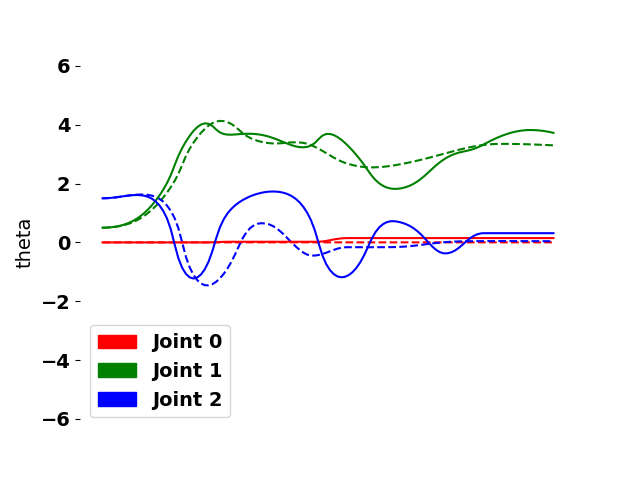
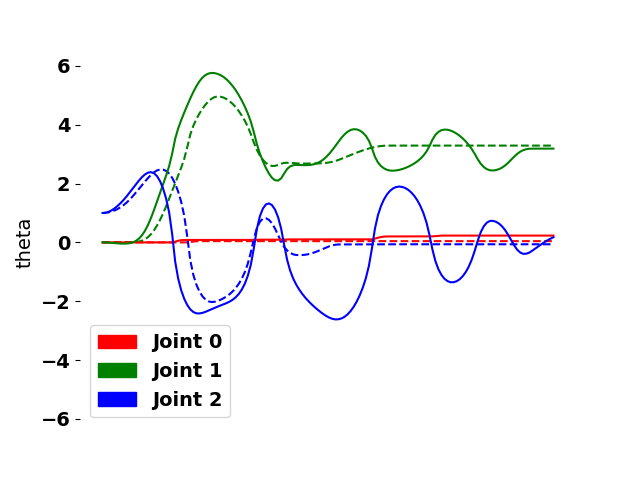
started working on displaying both trajectories at once

diff --git a/final/viz2.py b/final/viz2.py
@@ -1,0 +1,306 @@
+import ctypes
+from pyglet.gl import *
+from pyglet.window import key
+from pywavefront import visualization, Wavefront
+import numpy as np
+import time
+from pyglet.window import mouse
+from trajPlotter import trajPlotter
+
+class viz:
+	"""Robotic arm visualization class made using OpenGL
+		(path( 3*n numpy array), use_GPU = False)
+	 .start() to run"""
+
+	def __init__(self, pathA, pathB, use_GPU = False):
+
+		self.pathA = pathA
+		self.pathB = pathB
+		self.lenPath = len(pathA)
+		self.tp = trajPlotter(self.pathA,self.pathB)
+
+		if use_GPU is False:
+			self.window = pyglet.window.Window(width=1280,height=720)
+		else:
+			config = pyglet.gl.Config(sample_buffers=1, samples=9) #samples = number of points used for AA
+			self.window = pyglet.window.Window(width=1280, height=720, config = config)
+
+		self.keys = key.KeyStateHandler()
+		self.window.push_handlers(self.keys)
+		self.window.push_handlers(self.on_mouse_drag)
+
+		self.base = Wavefront('assets/base.obj')
+		self.link0 = Wavefront('assets/l0.obj')
+		self.link1 = Wavefront('assets/l1.obj')
+		self.link2 = Wavefront('assets/l2andl3Dummy.obj')
+		greenCheck = pyglet.image.load('assets/greenCheck.png')
+		self.gc = pyglet.sprite.Sprite(img=greenCheck)
+		self.gc.scale = 0.01
+		self.gc.x = -10
+		self.gc.y = 12
+		redX = pyglet.image.load('assets/redX.png')
+		self.rx = pyglet.sprite.Sprite(img=redX)
+		self.rx.scale = 0.005
+		self.rx.x = -10
+		self.rx.y = 12
+
+		self.l1 = 6.5
+		self.l2 = 6.5
+		self.l3 = 2.65
+		self.rotation = 0
+		self.cameraZ = 0.0
+		self.i = 0
+		self.on_resize(1280,720)
+
+		self.dx = 0
+		self.dy = 0
+		self.theta = 0
+		self.phi = 0
+
+		#test
+		#TODO generate plot from here
+		self.label = None
+		plotFigPath = "pathFig.png"
+		plotFig = pyglet.image.load(plotFigPath)
+
+
+		self.plotFig = pyglet.sprite.Sprite(img=plotFig)
+		self.plotFig.scale = 0.0375
+		self.plotFig.x = -32
+		self.plotFig.y = 5
+
+		self.spf = 1/60 #seconds per frame
+
+		#debug- this may allow alphas to be turned on
+		# glEnable(GL_BLEND)
+		# glBlendFunc(GL_SRC_ALPHA, GL_ONE_MINUS_SRC_ALPHA)
+
+	def on_resize(self,width, height):
+		glMatrixMode(GL_PROJECTION)
+		glLoadIdentity()
+		gluPerspective(50., float(width)/height, 1., 100.) #change first argument for fov
+		glTranslatef(0,-5,-40) #fits arm into camera view
+		glMatrixMode(GL_MODELVIEW)
+		return True
+
+	def on_draw(self):
+		self.window.clear()
+		glClearColor(0.25,0.25,0.25,0.5) #sets background color
+		glViewport(0,0,1280,720)
+		glLoadIdentity()
+		glMatrixMode(GL_PROJECTION)
+		# glRotatef(0,0,1,0)
+		
+
+		#new
+		self.plotFig.draw() #draws sprite directly to screen regardless of camera angle
+		if self.label:
+			self.label.draw()
+		glTranslatef(self.dx/20,self.dy/20,0)
+		glRotatef(self.theta/5,0,1,0)
+		#not sure how important this one is
+		# glRotatef(self.phi/5,-1,0,0)
+
+		
+
+
+
+		glMatrixMode(GL_MODELVIEW)
+		link0RotA = (180/np.pi)*self.pathA[self.i,0]
+		link1RotA = (180/np.pi)*self.pathA[self.i,1]
+		link2RotA = (180/np.pi)*self.pathA[self.i,2]
+
+		link0RotB = (180/np.pi)*self.pathB[self.i,0]
+		link1RotB = (180/np.pi)*self.pathB[self.i,1]
+		link2RotB = (180/np.pi)*self.pathB[self.i,2]
+
+
+		lightfv = ctypes.c_float * 4
+
+		#get link positions for A
+		link2RotEffA = link1RotA + link2RotA
+		xElbA = ( self.l1 * np.sin(link0RotA*(np.pi/180))*np.sin(link1RotA*(np.pi/180)))
+		yElbA = ( self.l1 * np.cos((link1RotA*(np.pi/180)))) 
+		zElbA =  ( self.l1 * np.cos(link0RotA*(np.pi/180))*np.sin(link1RotA*(np.pi/180)))
+		xl3A = xElbA + ( self.l2 * np.sin(link0RotA*(np.pi/180))*np.sin(link2RotEffA*(np.pi/180)))
+		yl3A = yElbA + ( self.l2 * np.cos((link2RotEffA*(np.pi/180)))) 
+		zl3A = zElbA + ( self.l2 * np.cos(link0RotA*(np.pi/180))*np.sin(link2RotEffA*(np.pi/180)))
+		xl4A = xElbA + ( (self.l2+self.l3) * np.sin(link0RotA*(np.pi/180))*np.sin(link2RotEffA*(np.pi/180)))
+		yl4A = yElbA + ( (self.l2+self.l3) * np.cos((link2RotEffA*(np.pi/180)))) 
+		zl4A = zElbA + ( (self.l2+self.l3) * np.cos(link0RotA*(np.pi/180))*np.sin(link2RotEffA*(np.pi/180)))
+
+		#repeat for B
+		link2RotEffB = link1RotB + link2RotB
+		xElbB = ( self.l1 * np.sin(link0RotB*(np.pi/180))*np.sin(link1RotB*(np.pi/180)))
+		yElbB = ( self.l1 * np.cos((link1RotB*(np.pi/180)))) 
+		zElbB =  ( self.l1 * np.cos(link0RotB*(np.pi/180))*np.sin(link1RotB*(np.pi/180)))
+		xl3B = xElbB + ( self.l2 * np.sin(link0RotB*(np.pi/180))*np.sin(link2RotEffB*(np.pi/180)))
+		yl3B = yElbB + ( self.l2 * np.cos((link2RotEffB*(np.pi/180)))) 
+		zl3B = zElbB + ( self.l2 * np.cos(link0RotB*(np.pi/180))*np.sin(link2RotEffB*(np.pi/180)))
+		xl4B = xElbB + ( (self.l2+self.l3) * np.sin(link0RotB*(np.pi/180))*np.sin(link2RotEffB*(np.pi/180)))
+		yl4B = yElbB + ( (self.l2+self.l3) * np.cos((link2RotEffB*(np.pi/180)))) 
+		zl4B = zElbB + ( (self.l2+self.l3) * np.cos(link0RotB*(np.pi/180))*np.sin(link2RotEffB*(np.pi/180)))
+
+
+		#glLightfv(GL_LIGHT0, GL_POSITION, lightfv(-1.0, 1.0*np.sin(rotation*0.1), 1.0, 0.0))
+		# glLightfv(GL_LIGHT0, GL_AMBIENT, lightfv(0.5,0.5,0.5,0.1))
+		glLightfv(GL_LIGHT0, GL_DIFFUSE, lightfv(0.5, 0.5, 0.5, 0.9))
+		glLightfv(GL_LIGHT0, GL_SPECULAR, lightfv(0.0,0.0,0.0,0.1))
+
+		glEnable(GL_DEPTH_TEST)
+
+		self.draw_base(self.base)
+		self.draw_link0(self.link0, 0, 0, 0, link0RotA)
+		# self.draw_link0(self.link0, 0, 0, 0, link0RotB) #TODO- turn up alpha
+		self.draw_link1(self.link1, 0, 0, 0,link0RotA, link1RotA)
+		self.draw_link1(self.link1, 0, 0, 0,link0RotB, link1RotB, wireframe = True) #todo turn up alpha
+		self.draw_link2(self.link2, xElbA, yElbA, zElbA, link0RotA, link1RotA, link2RotA)
+		self.draw_link2(self.link2, xElbB, yElbB, zElbB, link0RotB, link1RotB, link2RotB, wireframe = True)
+
+
+		glColorMask(GL_TRUE, GL_TRUE, GL_TRUE, GL_TRUE)
+		
+		## draw workspace boundary
+		# self.draw_cube()
+		# #draw green check if EE is inside the workspace
+		# if (xl3 > -8) and (xl3 < 8) and (yl3 < 10) and (yl3 > -5) and (zl3 > 3) and (zl3 < 13):
+		# 		self.gc.draw()
+		# #if EE is outside workspace draw the red x
+		# else:
+		# 		self.rx.draw()
+
+		# self.window.flip()
+		time.sleep(0.01)
+
+	def draw_base(self,link):
+		glLoadIdentity()
+		glMatrixMode(GL_MODELVIEW)
+		glRotatef(45,0,1,0)
+		glTranslatef(0,-3.4,0)
+		visualization.draw(link)
+
+	def draw_cube(self):
+		glLoadIdentity()
+		# glDisable(GL_POLYGON_SMOOTH)
+		glPolygonMode(GL_FRONT_AND_BACK, GL_LINE)
+		glLineStipple(10, 0xAAAA)
+		glEnable(GL_LINE_STIPPLE)
+		glColor3f(0.8, 0.0, 0.1)
+		glLineWidth(1)
+		#robot right
+		glBegin(GL_QUADS)
+		glVertex3f( -8, -5,  13 )
+		glVertex3f( -8,  10,  13 )
+		glVertex3f( -8,  10,  3 )
+		glVertex3f( -8, -5,  3 )
+		glEnd()
+		#robot left
+		glBegin(GL_QUADS)
+		glVertex3f( 8, -5,  13 )
+		glVertex3f( 8,  10,  13 )
+		glVertex3f( 8,  10,  3 )
+		glVertex3f( 8, -5,  3 )
+		glEnd()
+		#robot top
+		glBegin(GL_QUADS)
+		glVertex3f( -8,  10,  13 )
+		glVertex3f( -8,  10,  3 )
+		glVertex3f( 8,  10,  3 )
+		glVertex3f( 8,  10,  13 )
+		glEnd()
+		#robot bottom
+		glBegin(GL_QUADS)
+		glVertex3f( -8,  -5,  13 )
+		glVertex3f( -8,  -5,  3 )
+		glVertex3f( 8,  -5,  3 )
+		glVertex3f( 8,  -5,  13 )
+		glEnd()
+
+		#returns polygon mode to smooth
+		# glPolygonMode(GL_FRONT_AND_BACK, GL_FILL)
+		glPolygonMode(GL_FRONT, GL_FILL)
+		glBlendFunc(GL_SRC_ALPHA,GL_ONE_MINUS_SRC_ALPHA)
+		# glEnable(GL_BLEND)
+		glEnable(GL_MULTISAMPLE)
+		# glfwWindowHint(GLFW_SAMPLES, 4)
+		glHint(GL_POLYGON_SMOOTH_HINT, GL_NICEST)
+		# glDisable(GL_DEPTH_TEST)
+
+	def draw_link0(self,link, x, y, z, link0Rot):
+		glLoadIdentity()
+		glMatrixMode(GL_MODELVIEW)
+		glRotatef(link0Rot, 0.0, 1.0 , 0.0)
+		glTranslatef(x, y, z)
+
+		visualization.draw(link)
+
+	def draw_link1(self,link, x, y, z,link0Rot, link1Rot, wireframe = False):
+		glLoadIdentity()
+		glMatrixMode(GL_MODELVIEW)
+		#glRotatef(180,0,1,0) #flips l1 around so it isnt bending backwards
+		glRotatef(link0Rot, 0.0, 1.0 , 0.0)
+		glRotatef(link1Rot, 1.0, 0.0 , 0.0)
+		if wireframe:
+			# glPolygonMode( GL_FRONT_AND_BACK, GL_LINE ) #ugly wireframe
+			glPolygonMode( GL_FRONT, GL_POINT)
+			# glPointSize(1)
+		visualization.draw(link)
+		glPolygonMode(GL_FRONT_AND_BACK, GL_FILL)
+		
+	def draw_link2(self,link, x, y, z, link0Rot, link1Rot, link2Rot, wireframe = False):
+		glLoadIdentity()
+		glMatrixMode(GL_MODELVIEW)
+		glTranslatef(x, y, z)
+		#print("link0Rot: ", link0Rot, " Link1Rot: ", link1Rot, " Link2Rot: ", link2Rot)
+		glRotatef(link0Rot, 0.0, 1.0 , 0.0)
+		glRotatef(link1Rot, 1.0, 0.0 , 0.0)
+		glRotatef(link2Rot, 1.0, 0.0, 0.0)
+		if wireframe:
+			glPolygonMode(GL_FRONT, GL_POINT)
+		visualization.draw(link)
+		glPolygonMode(GL_FRONT_AND_BACK, GL_FILL)
+
+
+	# @window.event #doesen't work in class
+	def on_mouse_drag(self,x,y,dx,dy,button,modifiers):
+		"""move camera with mouse (click and drag)"""
+		
+		if button == pyglet.window.mouse.LEFT:
+			self.dx += dx
+			self.dy += dy
+
+		if button == pyglet.window.mouse.RIGHT:
+			self.theta += dx
+			self.phi += dy
+
+
+	def update(self, dt):
+		self.on_draw()
+		self.on_resize(1280,720)
+
+		#update text inside label here
+		self.label = pyglet.text.Label('Hello, world',
+                          font_name='Times New Roman',
+                          font_size=12,
+                          x=self.window.width//2, y=self.window.height//2,
+                          anchor_x='center', anchor_y='center',color = (255,255,255,100))
+
+		self.i += 1
+		if self.i == (self.lenPath - 1):
+			self.i = 0 #loop
+
+	def start(self):
+		# pyglet.clock.schedule(self.update)
+		pyglet.clock.schedule_interval(self.update, self.spf)
+		pyglet.app.run()
+
+
+if __name__ == "__main__":
+
+	filename1 = "C:/Users/Matt/comp138/final/path_y1.npy"
+	filename2 = "C:/Users/Matt/comp138/final/path_y2.npy"
+	path1 = np.load(filename1)
+	path2 = np.load(filename2)
+	viz = viz(path2, path1, use_GPU=False)
+
+	viz.start()
